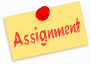
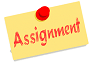
update cursus

diff --git a/docs/03_css/README.md b/docs/03_css/README.md
@@ -394,7 +394,7 @@ img {
 }
 ```
 
-## Laten we een voorbeeld maken
+::: tip We werken een voorbeeld uit
 
 We passen een stijl to op ons HTML voorbeeld die we eerder hebben aangemaakt.
 
@@ -505,6 +505,7 @@ ol {
 ```
 
 Proficiat je eerste pagina met stijl.
+:::
 
 ## Herhaling via zelfstudie
 
@@ -513,11 +514,12 @@ Om de nieuwe leerstof nog beter te begrijpen kan je onderstaande bronnen even be
 * [CSS tutorial op W3Schools](https://www.w3schools.com/css/default.asp)
 * [Style your website CSS tutorial op Giraffe Academy](https://www.youtube.com/playlist?list=PLLAZ4kZ9dFpNO7ScZFr-WTmtcBY3AN1M7)
 
-## Opdracht - Een eenvoudige webpagina met stijl
+::: tip Taak 2 - Een eenvoudige webpagina met stijl
 
 ![download](./images/assignment.png)
 
 * [Opdrachtfiche](assignment1.html)
+:::
 
 ## Het gebruik van online stylesheets
 
@@ -529,8 +531,9 @@ Bekijk zelf even de mogelijkheden van:
 * [W3.CSS](https://www.w3schools.com/w3css/default.asp)
 * [Font Awesome](https://www.w3schools.com/icons/fontawesome5_intro.asp)
 
-## Opdracht - Een eenvoudige webpagina met online stijl
+::: tip Taak 3 - Een eenvoudige webpagina met online stijl
 
 ![download](./images/assignment.png)
 
 * [Opdrachtfiche](assignment2.html)
+:::

diff --git a/docs/02_html/README.md b/docs/02_html/README.md
@@ -535,7 +535,7 @@ Om de nieuwe leerstof nog beter te begrijpen kan je onderstaande bronnen even be
 
 ::: tip Taak 1 - Het bouwen van een HTML pagina
 
-![download](./images/assignment_trans.png)
+![download](./images/assignment.png)
 
 * [Opdrachtfiche](assignment.html)
 :::
